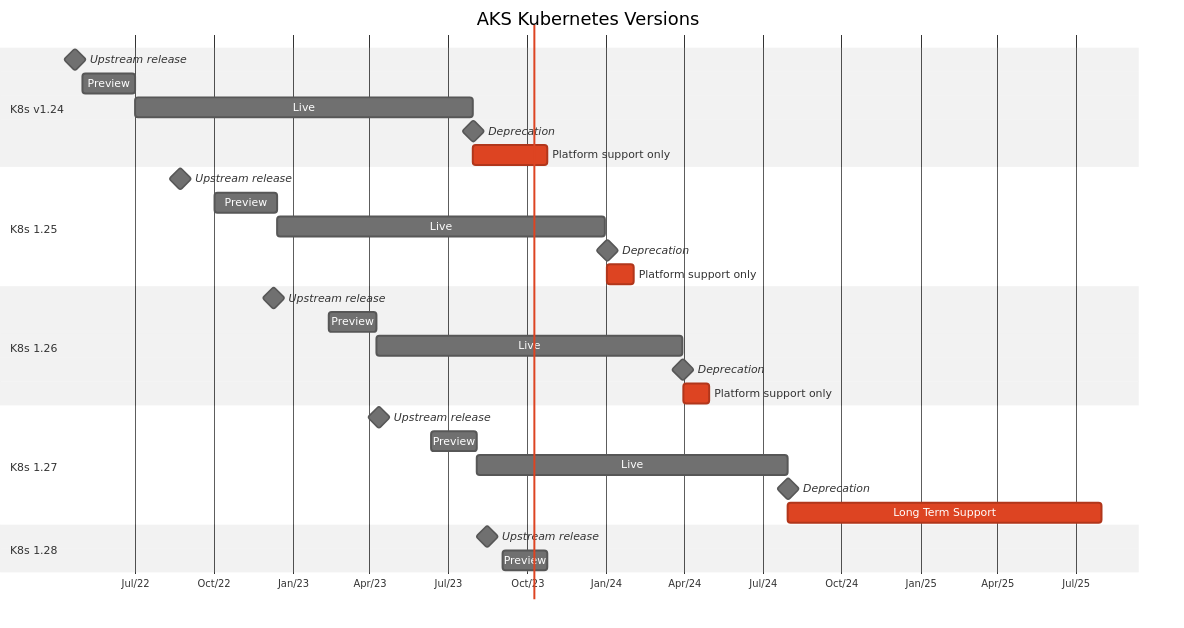
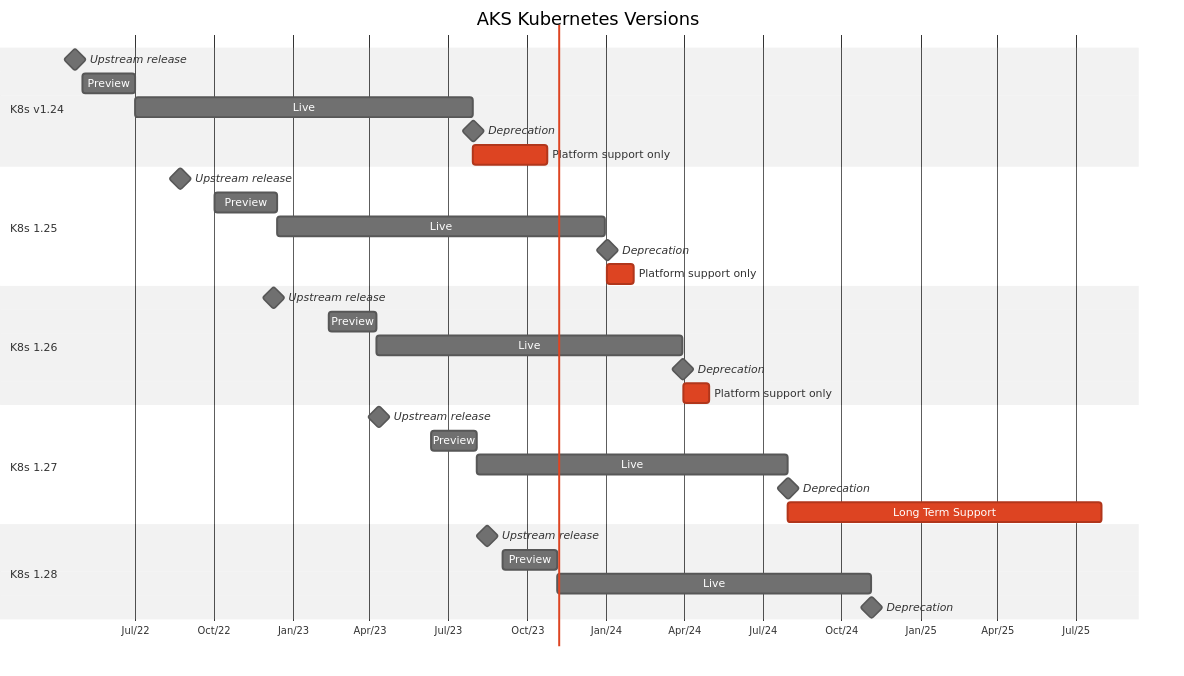
updated 1.28 GA date and chart

diff --git a/articles/aks/supported-kubernetes-versions.md b/articles/aks/supported-kubernetes-versions.md
@@ -49,7 +49,7 @@ For the past release history, see [Kubernetes history](https://github.com/kubern
 | 1.25 | Aug 2022 | Oct 2022 | Dec 2022 | Jan 2, 2024 | Until 1.29 GA |
 | 1.26 | Dec 2022 | Feb 2023 | Apr 2023 | Mar 2024 | Until 1.30 GA |
 | 1.27* | Apr 2023 | Jun 2023 | Jul 2023 | Jul 2024, LTS until Jul 2025 | Until 1.31 GA |
-| 1.28 | Aug 2023 | Sep 2023 | Oct 2023 || Until 1.32 GA|
+| 1.28 | Aug 2023 | Sep 2023 | Nov 2023 | Nov 2024 | Until 1.32 GA|
 | 1.29 | Dec 2023 | Jan 2024 | Feb 2024 | | Until 1.33 GA |
 
 *\* Indicates the version is designated for Long Term Support*
